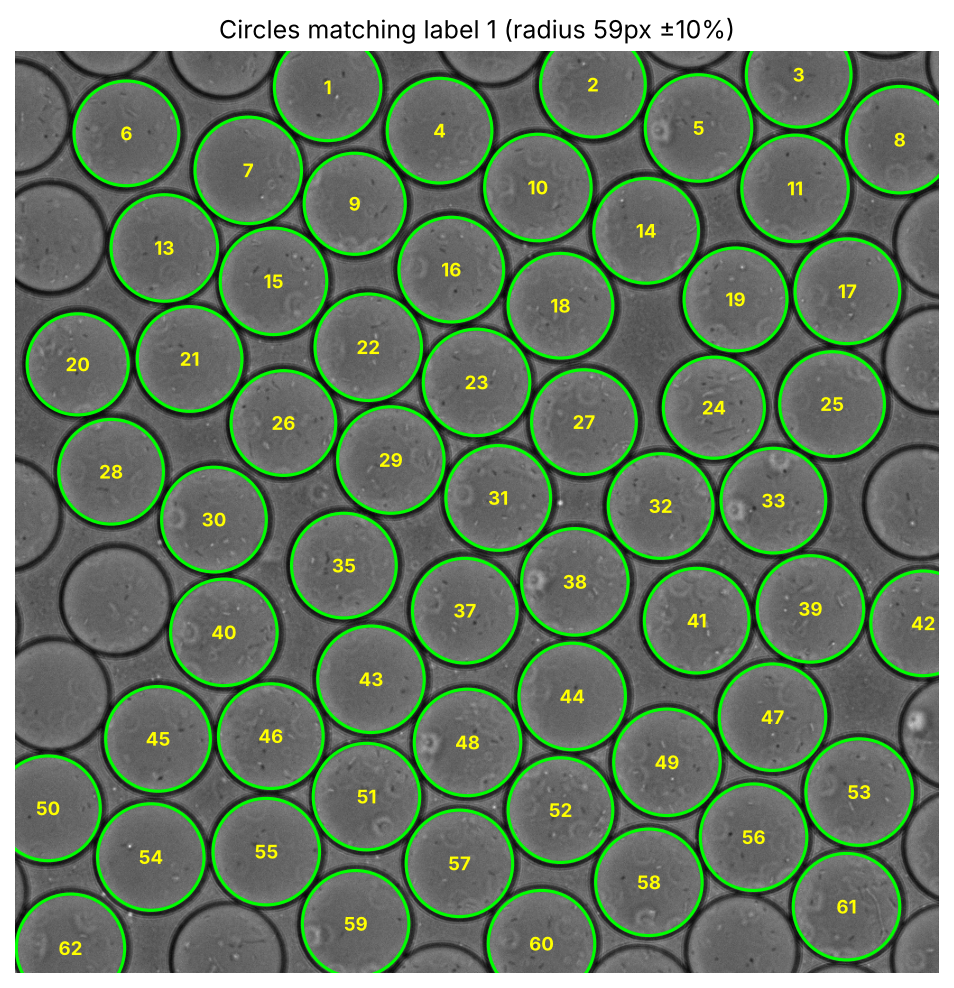
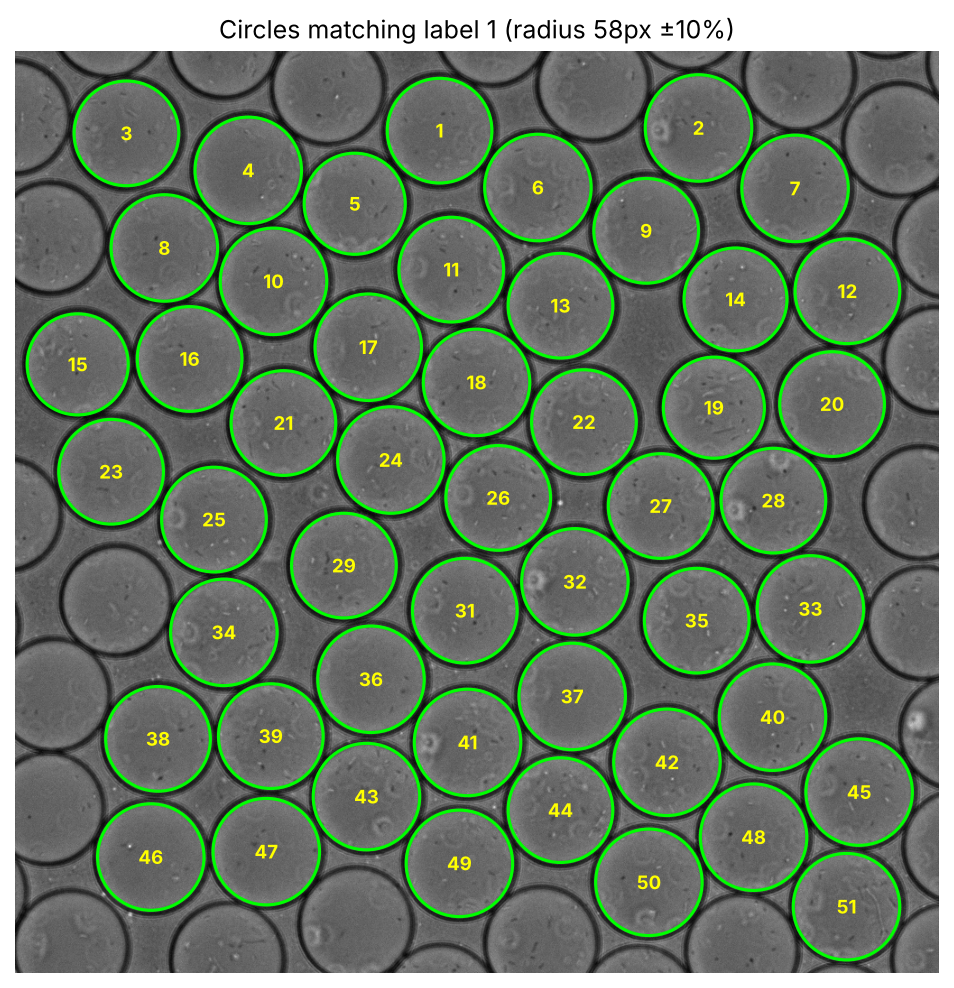
Count only complete circles (discard those cut off by image border)
Claude-Session: https://claude.ai/code/session_01Rvo7UkeeyNr3zqBj58vpAo

diff --git a/droplets.py b/droplets.py
@@ -39,6 +39,7 @@ def read_image(path):
 def detect_circles(gray, min_r, max_r, max_circles=200):
     """Step 2: find circular objects with a Hough transform.
 
+    Circles cut off by the image border are discarded.
     Returns a list of (cx, cy, r) sorted top-to-bottom, left-to-right.
     """
     smooth = filters.gaussian(gray, sigma=2)
@@ -50,7 +51,11 @@ def detect_circles(gray, min_r, max_r, max_circles=200):
         min_xdistance=min_r, min_ydistance=min_r,
         threshold=0.5 * hspaces.max(), total_num_peaks=max_circles,
     )
-    circles = sorted(zip(cx, cy, r), key=lambda c: (c[1] // max(min_r, 1), c[0]))
+    h, w = gray.shape
+    # Keep only complete circles: the whole disk must lie inside the image.
+    complete = [(x, y, rad) for x, y, rad in zip(cx, cy, r)
+                if x - rad >= 0 and y - rad >= 0 and x + rad < w and y + rad < h]
+    circles = sorted(complete, key=lambda c: (c[1] // max(min_r, 1), c[0]))
     return [(int(x), int(y), int(rad)) for x, y, rad in circles]
 
 
